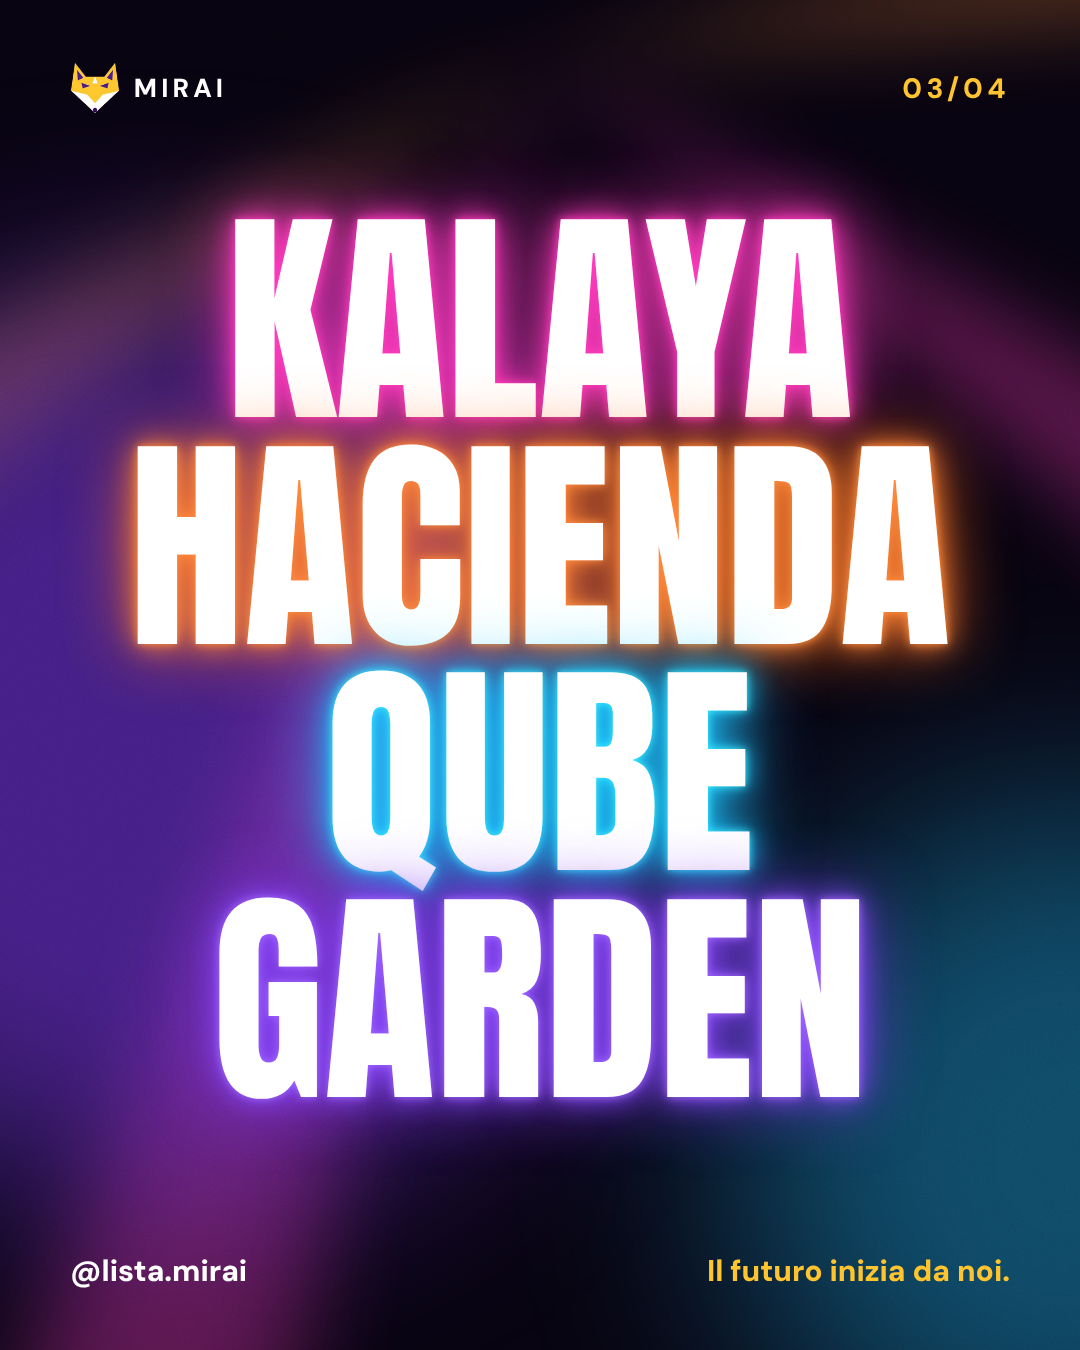
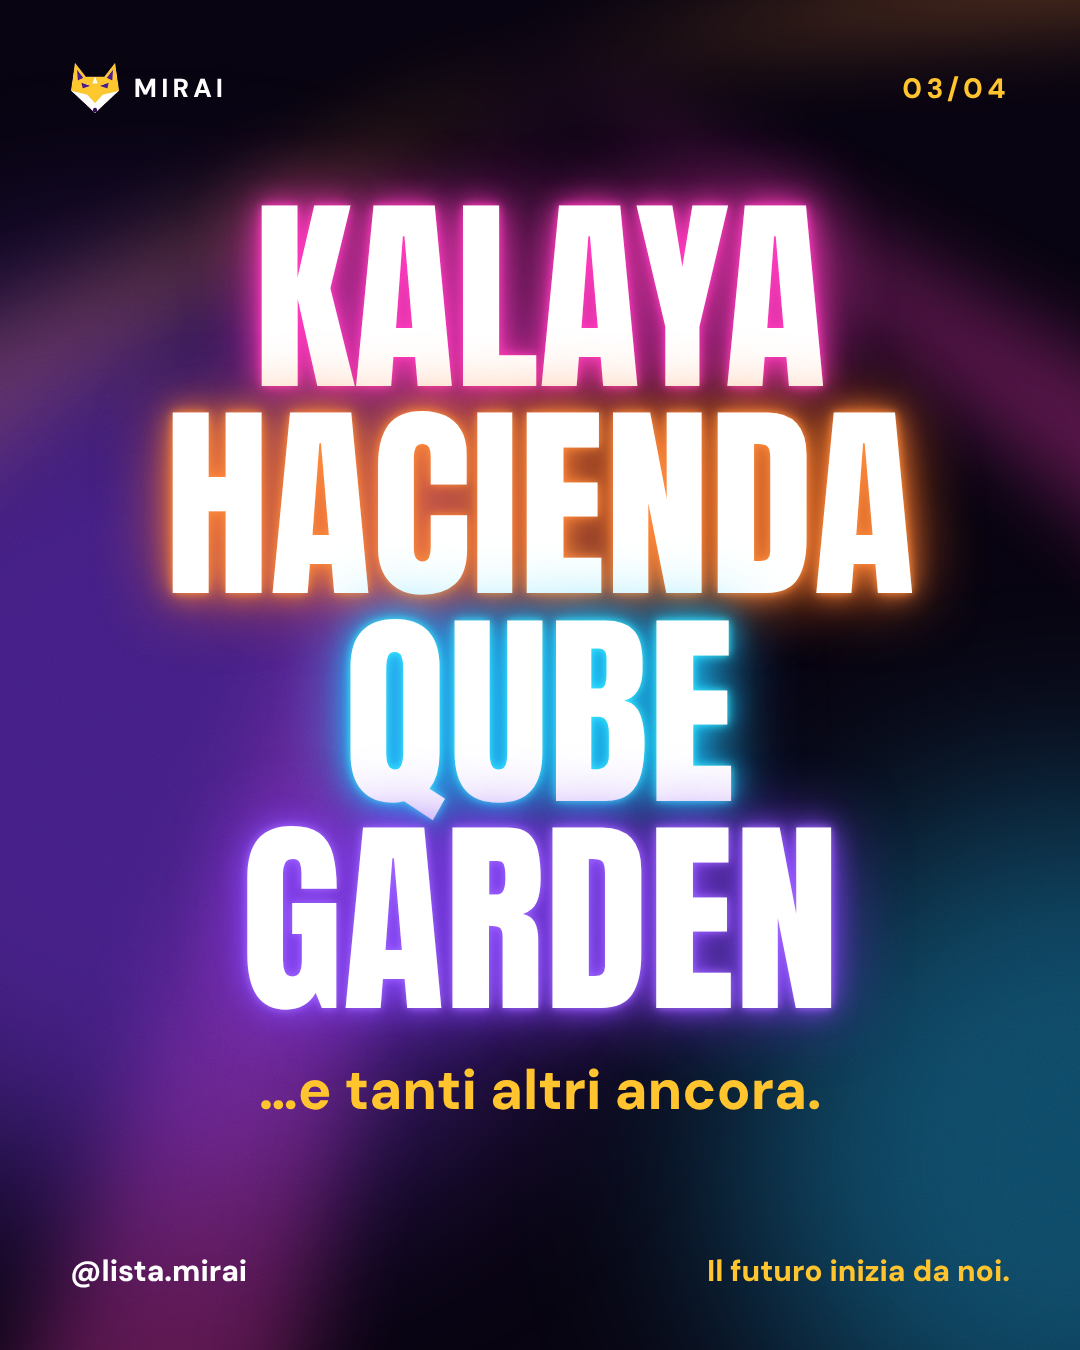
Neon locali: e tanti altri ancora

diff --git a/social/campagna/neon.html b/social/campagna/neon.html
@@ -43,7 +43,7 @@
 <section class="s" id="n2"><div class="beam"></div><div class="glow" style="width:900px;height:900px;background:#7c3aed;left:-300px;top:300px;opacity:.5"></div><div class="glow" style="width:700px;height:700px;background:#1cc6ff;right:-350px;bottom:-150px;opacity:.35"></div>
  <div class="brand"><img src="../../assets/fox-96.png" alt="">Mirai</div><div class="n">03/04</div>
  <div class="ctr" style="gap:8px">
-  <div class="A pk" data-max="230" data-box="900">Kalaya</div><div class="A or" data-max="230" data-box="900">Hacienda</div><div class="A cy" data-max="230" data-box="900">Qube</div><div class="A vi" data-max="230" data-box="900">Garden</div></div>
+  <div class="A pk" data-max="210" data-box="900">Kalaya</div><div class="A or" data-max="210" data-box="900">Hacienda</div><div class="A cy" data-max="210" data-box="900">Qube</div><div class="A vi" data-max="210" data-box="900">Garden</div><div class="sub" style="font-size:56px;margin-top:30px;color:#ffc42e">…e tanti altri ancora.</div></div>
  <div class="foot"><span>@lista.mirai</span><b>Il futuro inizia da noi.</b></div></section>
 
 <section class="s" id="n3"><div class="beam" style="transform:scaleX(-1)"></div><div class="glow" style="width:800px;height:800px;background:#ff8a3c;left:-300px;top:200px;opacity:.45"></div><div class="glow" style="width:800px;height:800px;background:#ff3cbe;right:-300px;bottom:-100px;opacity:.45"></div>
